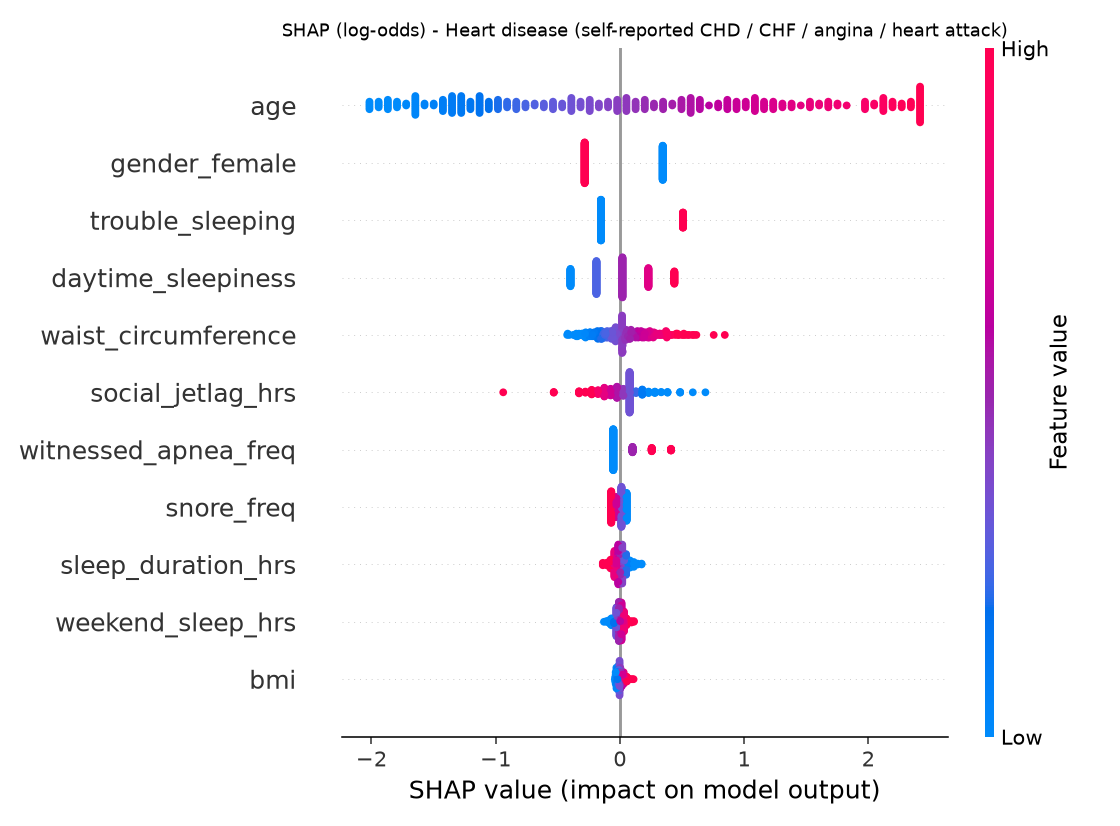
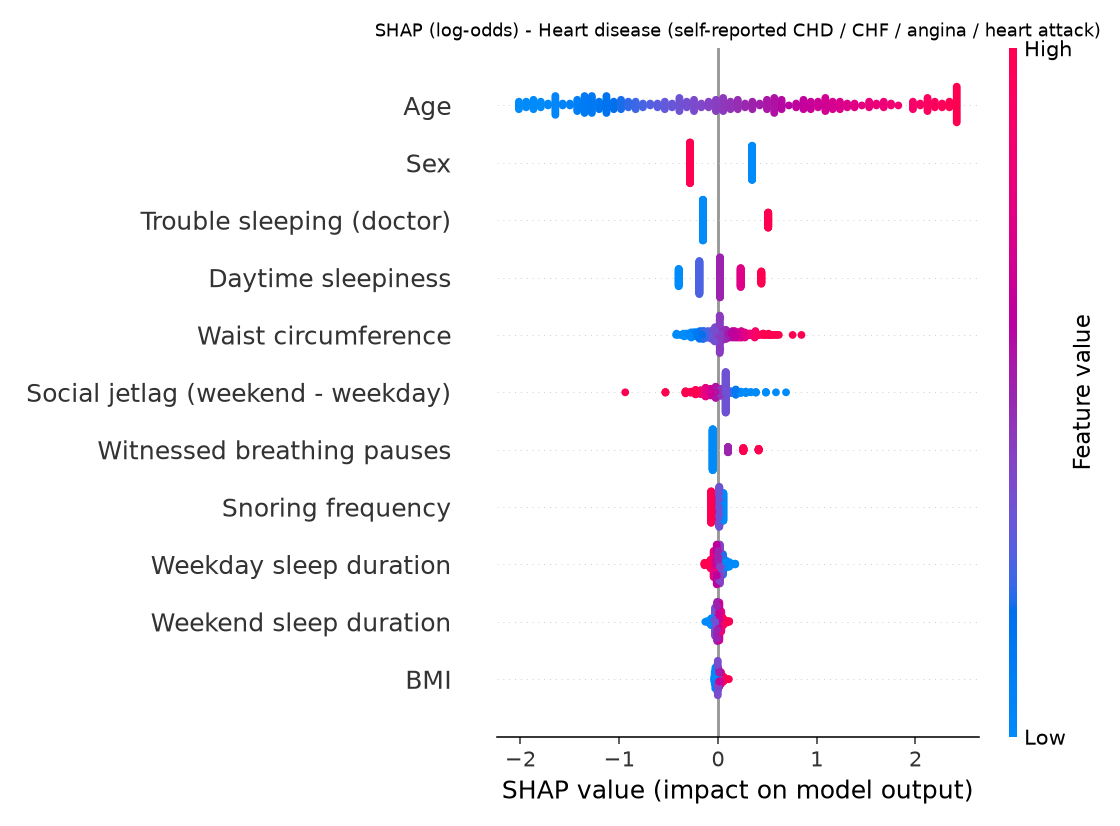
Fix: SHAP charts show raw column names (gender_female) instead of readable labels
Selecting Male and seeing 'gender_female' in the SHAP bar reads like a bug. Charts now show the label plus the value the user actually chose (Sex: Male, Snoring frequency: Frequently (5+/wk)), so the plot explains itself.

- src/feature_labels.py: single source of truth for display names, shared by the
  app and the training figures so wording cannot drift.
- Appends the selected value so a SHAP bar reads as an explanation, not a schema dump.
- train_models.py uses the same labels in the saved SHAP PNGs.
- src/regen_shap_figure.py: rewrite one figure from the saved pickle without a full
  retrain (the OOM crash during training was transient memory pressure, not a bug;
  refitting 3 algs x 5 folds is not a reason to spend minutes and RAM on a label change).
- tests/test_feature_labels.py guards that no modelled feature lacks a curated label
  and that no label itself leaks snake_case.

diff --git a/src/feature_labels.py b/src/feature_labels.py
@@ -1,0 +1,90 @@
+"""
+Human-readable labels for model features.
+
+WHY THIS EXISTS
+    Models are trained on internal column names (gender_female, snore_freq, ...).
+    Those names are correct for code but confusing in a chart: selecting "Male"
+    and then seeing "gender_female" in a SHAP plot reads like a bug.
+
+    This module is the single source of truth for feature display names, used by
+    BOTH the Streamlit app (SHAP bars) and train_models.py (SHAP summary PNGs),
+    so the wording can never drift between the UI and the report figures.
+
+DESIGN RULE
+    Never surface a raw snake_case identifier to a reader. display_feature()
+    appends the user's actual selected value where one is known, so a SHAP bar
+    reads like an explanation rather than a schema dump.
+"""
+from __future__ import annotations
+
+import math
+
+FEATURE_LABELS = {
+    "age": "Age",
+    "gender_female": "Sex",
+    "bmi": "BMI",
+    "waist_circumference": "Waist circumference",
+    "sleep_duration_hrs": "Weekday sleep duration",
+    "weekend_sleep_hrs": "Weekend sleep duration",
+    "social_jetlag_hrs": "Social jetlag (weekend - weekday)",
+    "snore_freq": "Snoring frequency",
+    "witnessed_apnea_freq": "Witnessed breathing pauses",
+    "daytime_sleepiness": "Daytime sleepiness",
+    "trouble_sleeping": "Trouble sleeping (doctor)",
+}
+
+# Questionnaire response scales, matching the NHANES codebook.
+_FREQ_0_3 = {0: "Never", 1: "Rarely (1-2/wk)", 2: "Occasionally (3-4/wk)",
+             3: "Frequently (5+/wk)"}
+_SLEEPY_0_4 = {0: "Never", 1: "Rarely (1x/mo)", 2: "Sometimes (2-4/mo)",
+               3: "Often (5-15/mo)", 4: "Almost always"}
+_YES_NO = {0: "No", 1: "Yes"}
+
+
+def format_value(name: str, value) -> str | None:
+    """Render a single feature value the way a person would say it."""
+    if value is None:
+        return None
+    try:
+        if isinstance(value, float) and math.isnan(value):
+            return None
+    except TypeError:
+        return None
+
+    if name == "gender_female":
+        return "Female" if int(value) == 1 else "Male"
+    if name in ("snore_freq", "witnessed_apnea_freq"):
+        return _FREQ_0_3.get(int(value), str(value))
+    if name == "daytime_sleepiness":
+        return _SLEEPY_0_4.get(int(value), str(value))
+    if name == "trouble_sleeping":
+        return _YES_NO.get(int(value), str(value))
+    if name == "social_jetlag_hrs":
+        return f"{float(value):+.1f} h"
+    if name in ("sleep_duration_hrs", "weekend_sleep_hrs"):
+        return f"{float(value):.1f} h"
+    if name == "age":
+        return f"{float(value):.0f} years"
+    if name == "bmi":
+        return f"{float(value):.1f} kg/m2"
+    if name == "waist_circumference":
+        return f"{float(value):.0f} cm"
+    return None
+
+
+def display_feature(name: str, value=None) -> str:
+    """'gender_female' + 0 -> 'Sex: Male'; without a value -> 'Sex'."""
+    base = FEATURE_LABELS.get(name, name.replace("_", " ").strip().capitalize())
+    rendered = format_value(name, value)
+    return f"{base}: {rendered}" if rendered is not None else base
+
+
+def display_features(names, row=None) -> list[str]:
+    """Label every feature for a chart, pulling values from a one-row frame."""
+    out = []
+    for n in names:
+        value = None
+        if row is not None and n in row.columns:
+            value = row.iloc[0][n]
+        out.append(display_feature(n, value))
+    return out

diff --git a/tests/test_feature_labels.py b/tests/test_feature_labels.py
@@ -1,0 +1,72 @@
+"""Unit checks for the readable feature labels used in SHAP charts."""
+import sys
+from pathlib import Path
+
+ROOT = Path(__file__).resolve().parents[1]
+sys.path.insert(0, str(ROOT / "src"))
+
+import pandas as pd
+from feature_labels import display_feature, display_features
+
+FAIL = []
+
+
+def check(name, cond, detail=""):
+    print(f"[{'PASS' if cond else 'FAIL'}] {name}" + (f" - {detail}" if detail else ""))
+    if not cond:
+        FAIL.append(name)
+
+
+# The exact user complaint: male selected, chart must not say gender_female
+check("male -> 'Sex: Male'", display_feature("gender_female", 0) == "Sex: Male",
+      display_feature("gender_female", 0))
+check("female -> 'Sex: Female'", display_feature("gender_female", 1) == "Sex: Female",
+      display_feature("gender_female", 1))
+
+check("no raw identifier leaked for sex",
+      "gender_female" not in display_feature("gender_female", 0))
+
+# questionnaire scales read back in the user's own words
+check("snore=3 -> Frequently (5+/wk)",
+      display_feature("snore_freq", 3) == "Snoring frequency: Frequently (5+/wk)",
+      display_feature("snore_freq", 3))
+check("trouble=0 -> No",
+      display_feature("trouble_sleeping", 0) == "Trouble sleeping (doctor): No",
+      display_feature("trouble_sleeping", 0))
+check("jetlag signed", display_feature("social_jetlag_hrs", -1.5) ==
+      "Social jetlag (weekend - weekday): -1.5 h",
+      display_feature("social_jetlag_hrs", -1.5))
+
+# no raw snake_case identifier may reach a chart, for any feature we actually use
+import json
+from feature_labels import FEATURE_LABELS
+
+metrics = json.loads((ROOT / "results/metrics/metrics.json").read_text(encoding="utf-8"))
+all_feats = set()
+for t in metrics["tasks"].values():
+    all_feats.update(t.get("features_model_b", []))
+    all_feats.update(t.get("features_model_a", []))
+
+missing = sorted(f for f in all_feats if f not in FEATURE_LABELS)
+check("every modelled feature has a curated label", not missing, str(missing))
+
+# and no curated label may itself contain a raw identifier
+leaky = [f for f in sorted(all_feats) if "_" in FEATURE_LABELS.get(f, "")]
+check("no curated label contains snake_case", not leaky, str(leaky))
+
+# NaN / None must degrade gracefully, not crash
+check("None value -> plain label", display_feature("bmi", None) == "BMI",
+      display_feature("bmi", None))
+check("NaN value -> plain label", display_feature("bmi", float("nan")) == "BMI")
+
+# batch helper pulls values out of a one-row frame
+row = pd.DataFrame([{"age": 45, "gender_female": 0, "bmi": 27.3}])
+out = display_features(["age", "gender_female", "bmi"], row)
+check("display_features uses row values",
+      out == ["Age: 45 years", "Sex: Male", "BMI: 27.3 kg/m2"], str(out))
+
+print("\n" + "=" * 50)
+if FAIL:
+    print("FAILED:", FAIL)
+    sys.exit(1)
+print("ALL LABEL CHECKS PASSED")

diff --git a/app/app.py b/app/app.py
@@ -4,6 +4,7 @@
 # can be launched from any working directory:
 #     streamlit run app/app.py
 import json
+import sys
 import warnings
 from pathlib import Path
 
@@ -22,6 +23,10 @@ METRICS_DIR = ROOT / "results" / "metrics"
 FIGURES_DIR = ROOT / "results" / "figures"
 PROCESSED = ROOT / "data" / "processed"
 RAW = ROOT / "data" / "raw"
+
+# shared human-readable feature naming (used by the app AND the training figures)
+sys.path.insert(0, str(ROOT / "src"))
+from feature_labels import display_feature, display_features  # noqa: E402
 
 st.set_page_config(page_title="SleepHealth-AI", page_icon="🌙", layout="wide")
 
@@ -375,12 +380,16 @@ elif page == "🫀 Sleep-Disorder & Heart Risk (NHANES)":
         background = pd.read_csv(PROCESSED / "nhanes_sleep_health.csv")[feats]
         try:
             vals, fnames = shap_contributions(MODELS[key], row, background)
-            st.plotly_chart(shap_bar(vals, fnames,
+            # Raw column names (gender_female, snore_freq, ...) are code identifiers,
+            # not readable labels. Show what the user actually chose, e.g. "Sex: Male".
+            labels = display_features(fnames, row)
+            st.plotly_chart(shap_bar(vals, labels,
                                      f"{which} — contribution of each feature"),
                             width="stretch")
             st.caption("Red pushes the estimate **up**, green pushes it **down**. "
                        "SHAP values are on the log-odds scale (a value of +0.69 roughly "
-                       "doubles the estimated odds).")
+                       "doubles the estimated odds). The bracketed values are the inputs "
+                       "**you selected** above.")
         except Exception as exc:
             st.info(f"SHAP unavailable: {exc}")
 
@@ -659,10 +668,11 @@ elif page == "🫀 Cardiometabolic Dashboard":
         try:
             vals, fnames = shap_contributions(MODELS["hypertension"], df_in[feats],
                                               df_in[feats])
-            st.plotly_chart(shap_bar(vals, fnames,
+            st.plotly_chart(shap_bar(vals, display_features(fnames, df_in),
                                      "Feature contribution (hypertension)"),
                             width="stretch")
-            st.caption("Red raises the estimate, green lowers it (log-odds scale).")
+            st.caption("Red raises the estimate, green lowers it (log-odds scale). "
+                       "Bracketed values are the inputs you selected.")
         except Exception as exc:
             st.info(f"SHAP unavailable: {exc}")
 

diff --git a/src/regen_shap_figure.py b/src/regen_shap_figure.py
@@ -1,0 +1,73 @@
+"""Regenerate ONE saved SHAP figure without retraining.
+
+WHY THIS EXISTS
+    train_models.py fits 3 algorithms x 5 folds x 3 tasks, which needs a lot of
+    RAM. On a memory-constrained machine that can fail with an OpenBLAS
+    allocation error, even though the model pickles on disk are perfectly good.
+
+    Changing a plot label is not a reason to refit a model. This script loads the
+    already-deployed pickle and rewrites only its SHAP figure, so a cosmetic
+    change costs seconds instead of minutes and touches no metrics.
+
+USAGE
+    python src/regen_shap_figure.py osa_risk
+"""
+import os
+import sys
+
+import joblib
+import matplotlib
+matplotlib.use("Agg")
+import matplotlib.pyplot as plt
+import numpy as np
+import pandas as pd
+import shap
+import warnings
+from sklearn.ensemble import RandomForestClassifier as _RF
+from xgboost import XGBClassifier as _XGB
+
+from feature_labels import display_feature
+from train_models import (DATA, FIGURES, MODELS, TASKS, make_scaler_only)
+
+warnings.filterwarnings("ignore")
+
+
+def regen(task_name: str) -> str:
+    if task_name not in TASKS:
+        raise SystemExit(f"unknown task {task_name!r}; choose from {list(TASKS)}")
+    task = TASKS[task_name]
+
+    # Load the deployed model - it is a full Pipeline (imputer -> scaler -> model).
+    path = os.path.join(MODELS, f"{task_name}_model.pkl")
+    final = joblib.load(path)
+
+    # Reproduce the exact feature matrix the training script used.
+    d = pd.read_csv(DATA)
+    feats = task["model_b"]
+    Xs = np.asarray(make_scaler_only().fit_transform(d[feats]))
+
+    mdl = final.named_steps["classifier"]
+    if isinstance(mdl, (_RF, _XGB)):
+        explainer = shap.TreeExplainer(mdl)
+    else:  # LogisticRegression
+        explainer = shap.LinearExplainer(mdl, Xs)
+    vals = explainer.shap_values(Xs[:300])
+    if isinstance(vals, list):
+        vals = vals[1]
+    elif getattr(vals, "ndim", 0) == 3:
+        vals = vals[:, :, 1]
+
+    readable = [display_feature(f) for f in feats]
+    shap.summary_plot(np.asarray(vals), Xs[:300], feature_names=readable,
+                      show=False, max_display=12)
+    plt.title(f"SHAP (log-odds) - {task['label']}", fontsize=9)
+    plt.tight_layout()
+    out = os.path.join(FIGURES, f"shap_{task_name}.png")
+    plt.savefig(out, dpi=140)
+    plt.close()
+    return out
+
+
+if __name__ == "__main__":
+    which = sys.argv[1] if len(sys.argv) > 1 else "osa_risk"
+    print("wrote", regen(which))

diff --git a/src/train_models.py b/src/train_models.py
@@ -39,6 +39,8 @@ from sklearn.preprocessing import StandardScaler
 from sklearn.ensemble import RandomForestClassifier
 from xgboost import XGBClassifier
 
+from feature_labels import display_feature
+
 warnings.filterwarnings("ignore")
 
 DATA = os.path.join("data", "processed", "nhanes_sleep_health.csv")
@@ -243,8 +245,11 @@ def main() -> None:
                 vals = vals[1]
             elif getattr(vals, "ndim", 0) == 3:
                 vals = vals[:, :, 1]
+            # population-level figure: no single person's value applies, so labels
+            # are shown without the bracketed value used on the per-patient bars
+            readable = [display_feature(f) for f in task["model_b"]]
             shap.summary_plot(np.asarray(vals), Xs[:300],
-                              feature_names=task["model_b"], show=False,
+                              feature_names=readable, show=False,
                               max_display=12)
             plt.title(f"SHAP (log-odds) - {task['label']}", fontsize=9)
             plt.tight_layout()
